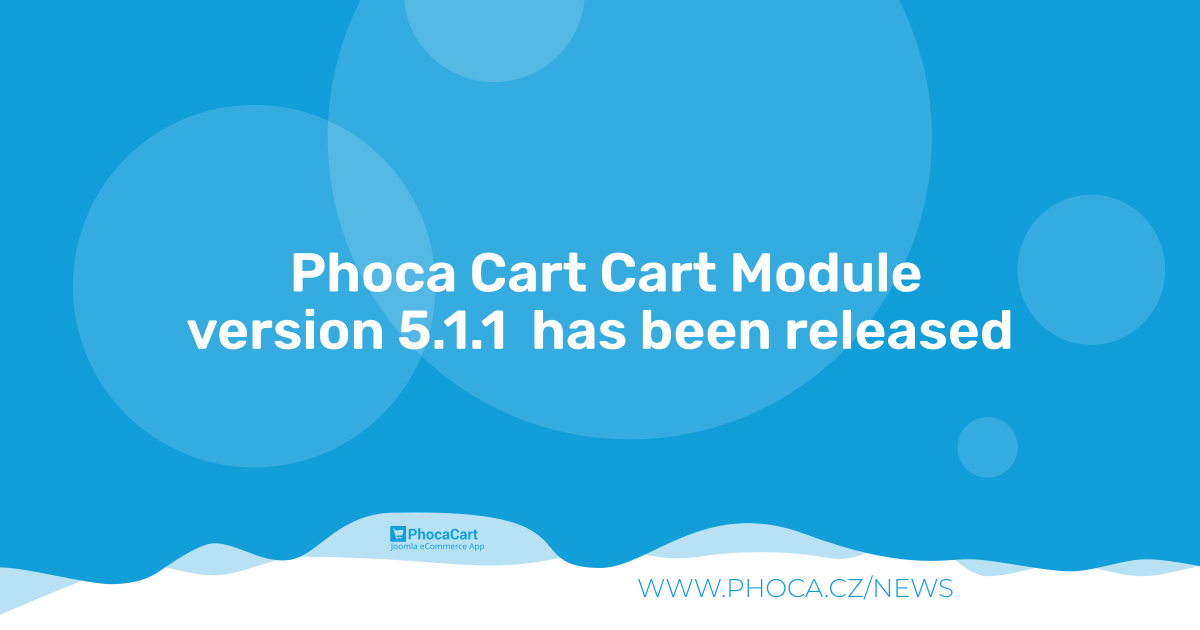
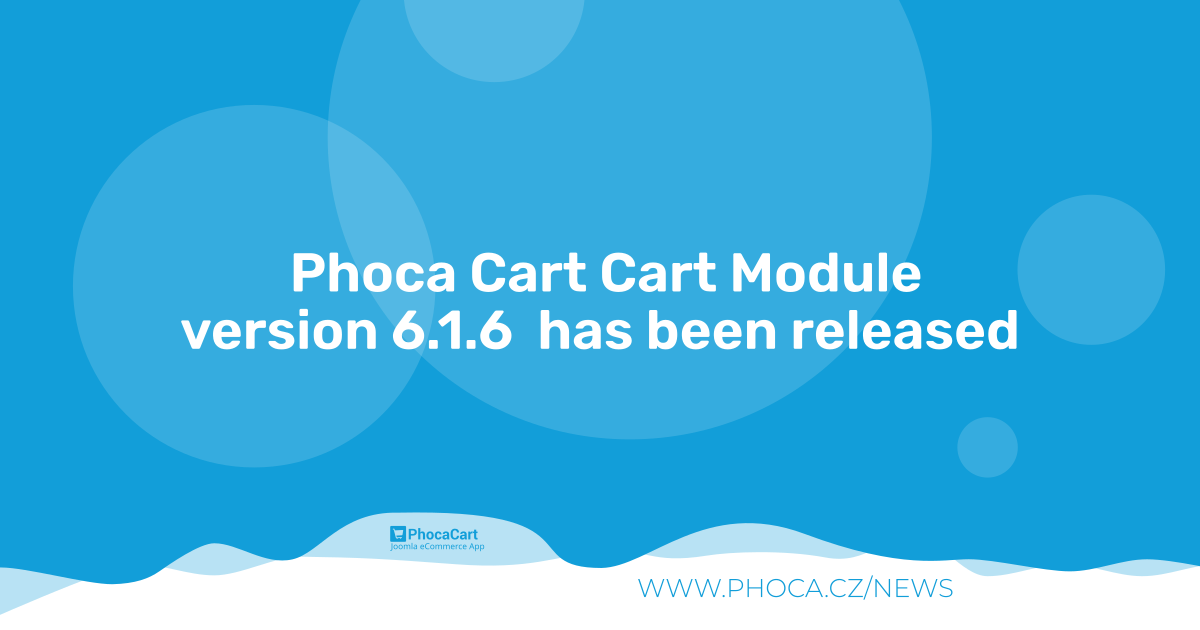
6.1.6

Changed region(s): [[0.1542, 0.4825, 0.8633, 0.573]]

diff --git a/mod_phocacart_cart.php b/mod_phocacart_cart.php
@@ -47,7 +47,7 @@ $p['load_component_media']			= $params->get( 'load_component_media', 1 );
 if ($p['load_component_media'] == 1) {
 	$media = PhocacartRenderMedia::getInstance('main');
 	$media->loadBase();
-	$media->loadBootstrap();
+	//$media->loadBootstrap();
 	$media->loadSpec();
 }
 
@@ -59,14 +59,14 @@ $cart->setFullItems();
 // we need to reflect it the same way standard checkout does
 // SHIPPING
 $shippingEdit	= 0;
-$shippingEdit	= $app->input->get('shippingedit', 0, 'int');
+$shippingEdit	= $app->getInput()->get('shippingedit', 0, 'int');
 $shippingId 	= $cart->getShippingId();
 if (isset($shippingId) && (int)$shippingId > 0 && $shippingEdit == 0) {
 	$cart->addShippingCosts($shippingId);
 }
 // PAYMENT
 $paymentEdit	= 0;
-$paymentEdit	= $app->input->get('paymentedit', 0, 'int');
+$paymentEdit	= $app->getInput()->get('paymentedit', 0, 'int');
 $paymentMethod 	= $cart->getPaymentMethod();
 if (isset($paymentMethod['id']) && (int)$paymentMethod['id'] > 0 && $paymentEdit == 0) {
 	$cart->addPaymentCosts($paymentMethod['id']);// validity of payment will be checked

diff --git a/README.MD b/README.MD
@@ -20,81 +20,69 @@ Our compliance with the principles of free and open-source software is establish
 
 *This repository is a shared community resource dedicated to the global open-source ecosystem.*
 
+### Community Feedback & Contributions
 
-## Project page
+We welcome your feedback and active involvement. You can join the development and follow the progress on public, independent GitHub pages at [https://github.com/PhocaCz](https://github.com/PhocaCz).
+Any feedback, bug reports, feature suggestions, or code improvements can be submitted transparently via **GitHub Issues** or **Pull Requests** within the respective repository.
 
-[Phoca Cart Cart Module](https://www.phoca.cz/phoca-cart-cart-module)
+### Accompanying External Resources
 
-[Phoca Cart Info Page](https://www.phoca.cz/project/phocacart-joomla-ecommerce)
+If you need additional information beyond this GitHub repository, further documentation, updates, and community channels are available on the following external websites:
 
+#### External Project Information
 
-
-## Documentation
-
-[Documentation](https://www.phoca.cz/documentation/category/117-phoca-cart-cart-module)
-
-
-
-
-
-## Support
-
-[Phoca Forum](https://www.phoca.cz/forum)
-
-:bell: [Phoca Forum RSS](https://www.phoca.cz/forum/app.php/feed)
+- [Phoca Cart Cart Module](https://www.phoca.cz/phoca-cart-cart-module)
+- [Phoca Cart Info Page](https://www.phoca.cz/project/phocacart-joomla-ecommerce)
+- [Project is listed on Joomla Extensions Directory](https://extensions.joomla.org/)
+- [Project is listed on Phoca download directory](https://www.phoca.cz/download)
 
 
+#### External Documentation
 
-## News
-
-[Phoca News](https://www.phoca.cz/news)
-
-:bell: [Phoca News RSS](https://www.phoca.cz/news?format=feed&type=rss)
-
-:bell: [Phoca Latest Releases RSS](https://www.phoca.cz/download/feed/111?format=feed&type=rss)
+- [Documentation](https://www.phoca.cz/documentation/category/117-phoca-cart-cart-module)
 
 
+#### External Community Support
 
-## Demo
+- [Phoca Forum](https://www.phoca.cz/forum)
+- [Joomla Forum](https://forum.joomla.org/)
+- [Joomlaportal.cz Forum - Czech](https://www.joomlaportal.cz/forum)
+- [Joomla.de Supportforum - German](https://forum.joomla.de/)
+- :bell: [Phoca Forum RSS](https://www.phoca.cz/forum/app.php/feed)
 
-[Joomla! - Phoca Cart Demo](https://www.phoca.cz/phocacartdemo/)
 
-[Joomla! - Phoca Cart - Phoca Premiere Template Demo](https://www.phoca.cz/phocacartdemo/premiere/)
+#### External News & Feeds
+
+- [Phoca News](https://www.phoca.cz/news)
+- [Joomlaportal.cz News](https://www.joomlaportal.cz/novinky)
+- :bell: [Phoca News RSS](https://www.phoca.cz/news?format=feed&type=rss)
+- :bell: [Phoca Latest Releases RSS](https://www.phoca.cz/download/feed/111?format=feed&type=rss)
 
 
+#### Demo
 
-## Version (Joomla! 3.x)
+- [Joomla! - Phoca Cart Demo](https://www.phoca.cz/phocacartdemo/)
+- [Joomla! - Phoca Cart - Phoca Premiere Template Demo](https://www.phoca.cz/phocacartdemo/premiere/)
 
+### Version (Joomla! 3.x - no longer supported)
 3.5.8
-
-## Version (Joomla! 4.x)
-
+### Version (Joomla! 4.x - no longer supported)
 4.0.9
-
-## Version (Joomla! 5.x)
-
+### Version (Joomla! 5.x - no longer supported)
 5.1.1
+### Version (Joomla! 6.x)
+6.1.6
 
-
-
-## License
+### License
 
 GNU/GPL
 
-
-
 This project is open source project - feel free to contribute! Thank you.
 
-
-
-## Social Media
+### Social Media
 
 - [Phoca on Facebook](https://www.facebook.com/Phoca.cz)
-
 - [Phoca on X (Twitter)](https://twitter.com/PhocaCz)
-
 - [Phoca on YouTube](https://www.youtube.com/user/phocavideos)
-
 - [Phoca on GitHub](https://github.com/PhocaCz)
-
 - [Phoca on Reddit](https://www.reddit.com/user/PhocaCz)

diff --git a/FOSS.md b/FOSS.md
@@ -1,0 +1,13 @@
+Free and Open Source Software (FOSS) Declaration
+
+This project is developed, distributed, and maintained strictly as **Free and Open Source Software (FOSS)**. It is provided entirely outside the course of any commercial activity as an independent public resource.
+
+Our compliance with the principles of free and open-source software is established by the following structural and operational guidelines:
+
+* **Strictly Non-Commercial & Public Good:** This software is provided 100% free of charge. No commercial entities control or fund this repository, and there are no commercial monetization models, paid subscriptions, or premium paywalls associated with this codebase.
+* **Independent Volunteer Contributions:** The development, maintenance, and testing of this extension are driven entirely by independent, voluntary contributions from the global community.
+* **No Commercial Technical Support:** Technical support is not provided as a paid commercial service by the maintainers of this repository. Community assistance is available on a voluntary, non-binding basis via public forums.
+* **No Proprietary Lock-in:** The software is licensed under the copyleft GNU General Public License (GPL). You have absolute freedom to run, study, share, modify, and redistribute the code.
+* **Decentralized Infrastructure:** This codebase is hosted in a public, transparent repository on GitHub to foster open collaborative development and public peer review, ensuring safety and quality through community vigilance.
+
+*This repository is a shared community resource dedicated to the global open-source ecosystem.*
